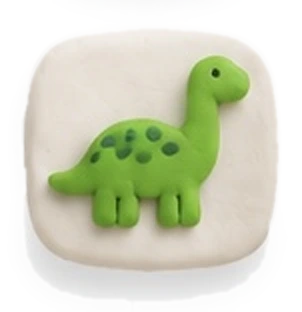
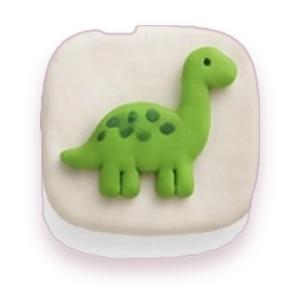
Crisper clay tiles with even shadows; world tile fixed; Cassie and talk button higher
Claude-Session: https://claude.ai/code/session_01Foh32h9wfWEj1WZo4VR4Pt

diff --git a/public/index.html b/public/index.html
@@ -38,28 +38,28 @@ body{background:var(--paper);color:var(--ink);font-family:var(--body);overflow:h
 .app{height:100%;display:flex;flex-direction:column;align-items:center;
   padding-top:max(4px,env(safe-area-inset-top));padding-bottom:max(10px,env(safe-area-inset-bottom));
   padding-left:max(16px,env(safe-area-inset-left));padding-right:max(16px,env(safe-area-inset-right));gap:6px}
-.stage{flex:1;min-height:0;width:100%;max-width:560px;display:flex;align-items:center;justify-content:center;margin-top:-18px;overflow:visible}
+.stage{flex:1;min-height:0;width:100%;max-width:560px;display:flex;align-items:flex-start;justify-content:center;margin-top:-26px;overflow:visible}
 #cv{display:block;max-width:150%;max-height:100%;height:100%}
-.caption{height:2.75em;margin-top:-4px;overflow-y:auto;width:100%;max-width:34ch;text-align:center;font-family:var(--display);font-weight:500;font-size:.95rem;line-height:1.35;color:var(--ink);padding:0 4px;scroll-behavior:smooth;-webkit-overflow-scrolling:touch;mask-image:linear-gradient(#000 80%,transparent);-webkit-mask-image:linear-gradient(#000 80%,transparent)}
+.caption{height:2.75em;margin-top:-14px;overflow-y:auto;width:100%;max-width:34ch;text-align:center;font-family:var(--display);font-weight:500;font-size:.95rem;line-height:1.35;color:var(--ink);padding:0 4px;scroll-behavior:smooth;-webkit-overflow-scrolling:touch;mask-image:linear-gradient(#000 80%,transparent);-webkit-mask-image:linear-gradient(#000 80%,transparent)}
 .caption:empty{mask-image:none;-webkit-mask-image:none}
 body.nowords .caption{display:none}
 .caption.small{font-size:.88rem;color:var(--ink-soft)}
-.talkwrap{display:flex;flex-direction:column;align-items:center;gap:0;padding-top:0;margin-top:-10px}
-.talk{position:relative;width:124px;height:122px;border:0;background:url('/img/btn/talk.webp') center/contain no-repeat;cursor:pointer;transition:transform .12s;filter:drop-shadow(0 6px 10px rgba(76,29,122,.18))}
+.talkwrap{display:flex;flex-direction:column;align-items:center;gap:0;padding-top:0;margin-top:-22px}
+.talk{position:relative;width:132px;height:132px;border:0;background:url('/img/btn/talk.webp') center/contain no-repeat;cursor:pointer;transition:transform .12s;filter:drop-shadow(0 6px 10px rgba(76,29,122,.18))}
 .talk:active{transform:translateY(3px) scale(.97)}
-.talk .ring{position:absolute;inset:4px 6px 12px 6px;border-radius:50%;border:6px solid var(--clay);opacity:0;pointer-events:none}
+.talk .ring{position:absolute;inset:10px 12px 22px 12px;border-radius:50%;border:6px solid var(--clay);opacity:0;pointer-events:none}
 .talk[data-state="listening"] .ring{animation:ring 1.2s ease-out infinite}
 @keyframes ring{0%{transform:scale(.9);opacity:.55}100%{transform:scale(1.25);opacity:0}}
 .talk[data-state="sleeping"]{filter:grayscale(.6) opacity(.75) drop-shadow(0 6px 10px rgba(76,29,122,.1))}
-.talk .ic{display:none;position:absolute;left:50%;top:46%;transform:translate(-50%,-50%);width:48px;height:48px;color:#f5e9d8;filter:drop-shadow(0 2px 1px rgba(60,20,90,.35))}
+.talk .ic{display:none;position:absolute;left:50%;top:45%;transform:translate(-50%,-50%);width:48px;height:48px;color:#f5e9d8;filter:drop-shadow(0 2px 1px rgba(60,20,90,.35))}
 .talk[data-state="listening"] .ic-stop,.talk[data-state="thinking"] .ic-dots,.talk[data-state="speaking"] .ic-wave,.talk[data-state="sleeping"] .ic-moon{display:block}
 .talk:not([data-state="idle"]){background-image:url('/img/btn/talk-blank.webp')}
 .ic-dots circle{animation:bob 1s ease-in-out infinite}
 .ic-dots circle:nth-child(2){animation-delay:.15s}.ic-dots circle:nth-child(3){animation-delay:.3s}
 @keyframes bob{0%,100%{transform:translateY(0)}50%{transform:translateY(-5px)}}
 .talklabel{display:none}
-.topics{width:100%;max-width:336px;display:grid;grid-template-columns:repeat(6,1fr);gap:2px 4px;padding:0;margin-top:6px}
-.topic{display:block;border:0;background:transparent;padding:0;cursor:pointer;aspect-ratio:283/291;transition:transform .1s}
+.topics{width:100%;max-width:372px;display:grid;grid-template-columns:repeat(6,1fr);gap:0;padding:0;margin-top:2px}
+.topic{display:block;border:0;background:transparent;padding:0;cursor:pointer;aspect-ratio:1;transition:transform .1s}
 .topic img{width:100%;height:100%;object-fit:contain;display:block;pointer-events:none}
 .topic:active{transform:translateY(3px) scale(.96)}
 .topic[disabled]{opacity:.45}
@@ -204,6 +204,6 @@ input[type=number]{width:90px}
 </div>
 
 <script src="/engine.js?v=8"></script>
-<script src="/app.js?v=17"></script>
+<script src="/app.js?v=18"></script>
 </body>
 </html>
